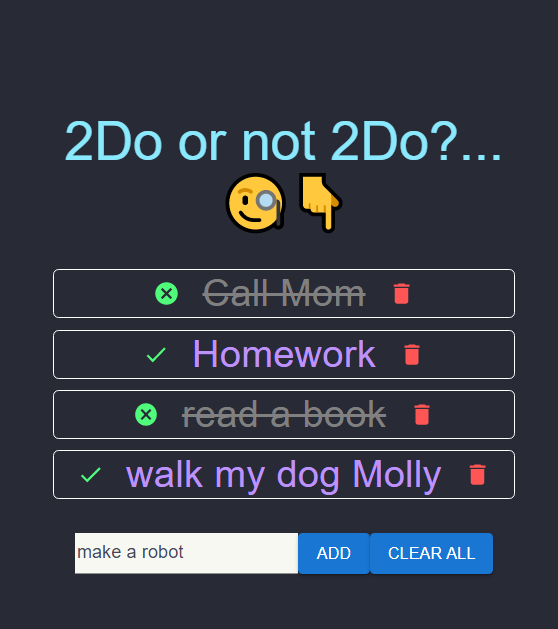
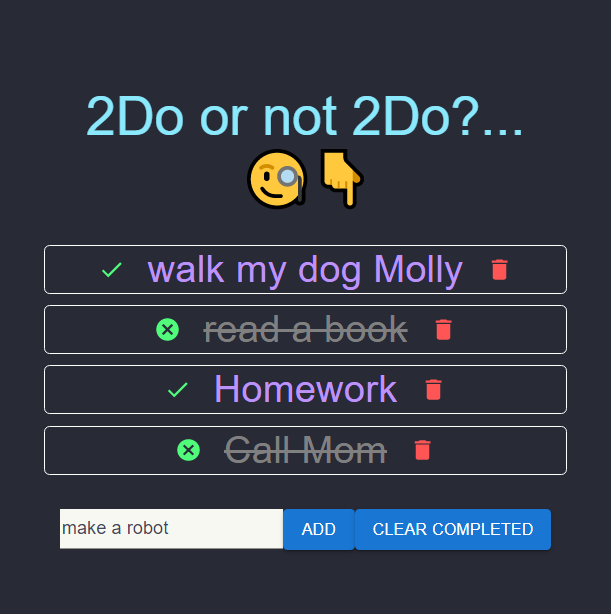
clean up

diff --git a/public/index.html b/public/index.html
@@ -2,14 +2,14 @@
 <html lang="en">
   <head>
     <meta charset="utf-8" />
-    <link rel="icon" href="%PUBLIC_URL%/favicon.ico" />
+    <link rel="icon" href="" />
     <meta name="viewport" content="width=device-width, initial-scale=1" />
     <meta name="theme-color" content="#000000" />
     <meta
       name="description"
       content="Web site created using create-react-app"
     />
-    <link rel="apple-touch-icon" href="%PUBLIC_URL%/logo192.png" />
+    <link rel="apple-touch-icon" href="" />
     <!--
       manifest.json provides metadata used when your web app is installed on a
       user's mobile device or desktop. See https://developers.google.com/web/fundamentals/web-app-manifest/

diff --git a/src/App.js b/src/App.js
@@ -9,14 +9,12 @@ const App = () => {
       ? []
       : JSON.parse(localStorage.getItem("todos-list"))
   );
-  console.log(todos);
 
   //everytime todos list changes, save the current state to local storage
   useEffect(() => {
     localStorage.setItem("todos-list", JSON.stringify(todos));
   }, [todos]);
   const handleMark = (index) => {
-    console.log(`you marked ${index}`);
     todos[index].isDone = !todos[index].isDone;
     setTodos([...todos]);
   };

diff --git a/src/Form.js b/src/Form.js
@@ -34,7 +34,7 @@ const Form = ({ addTodo, clearAllFinished }) => {
           Add
         </Button>
         <Button variant="contained" onClick={clearAllFinished}>
-          Clear All
+          Clear Completed
         </Button>
       </form>
     </Container>
